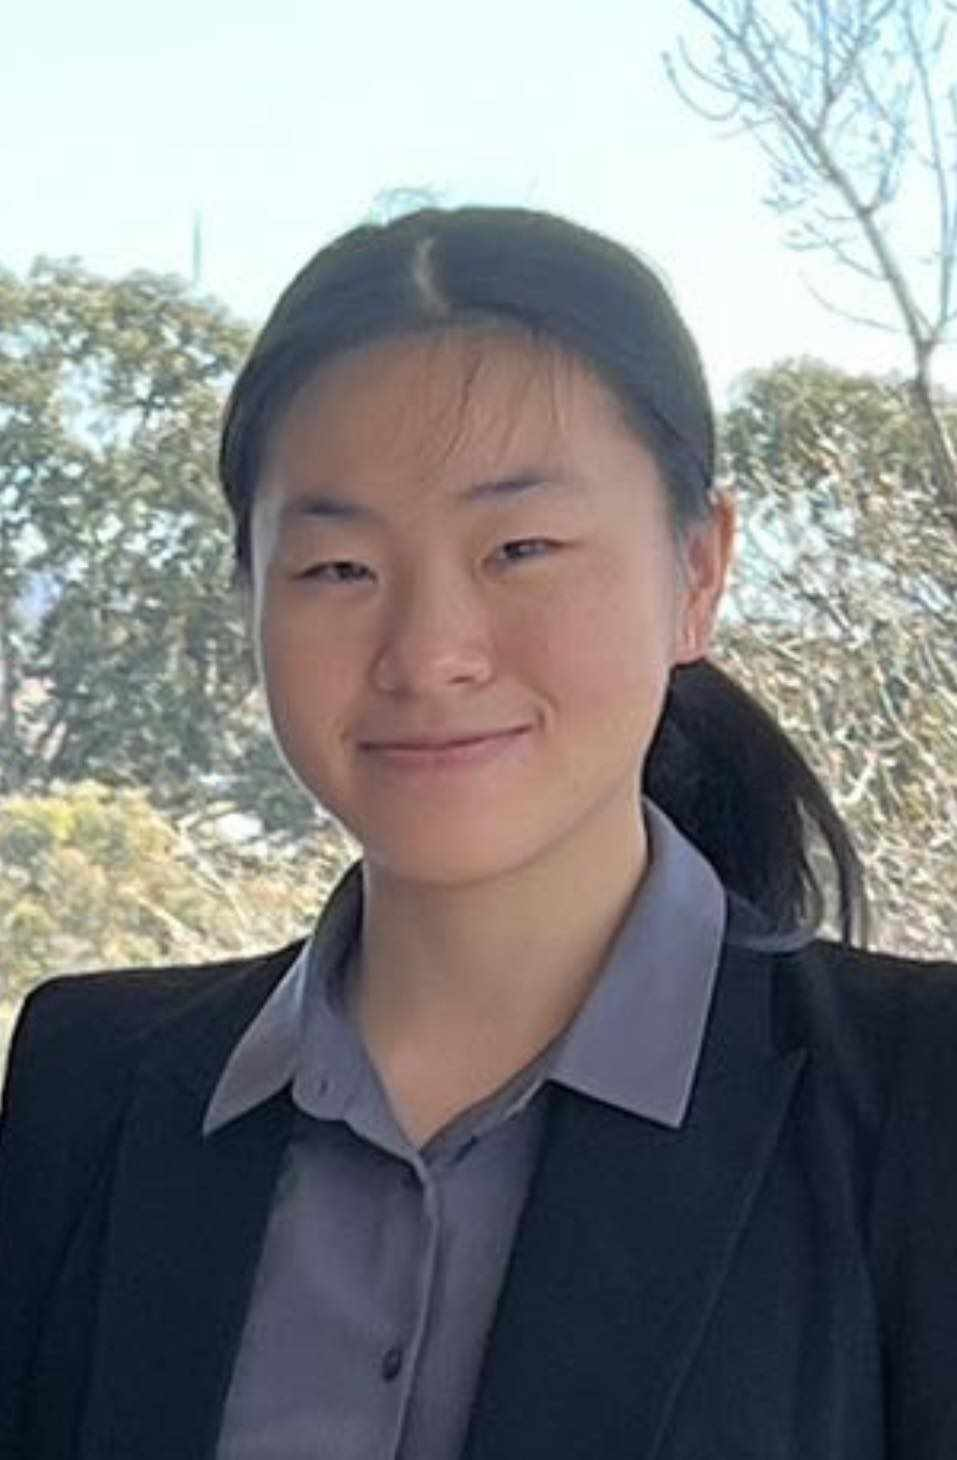
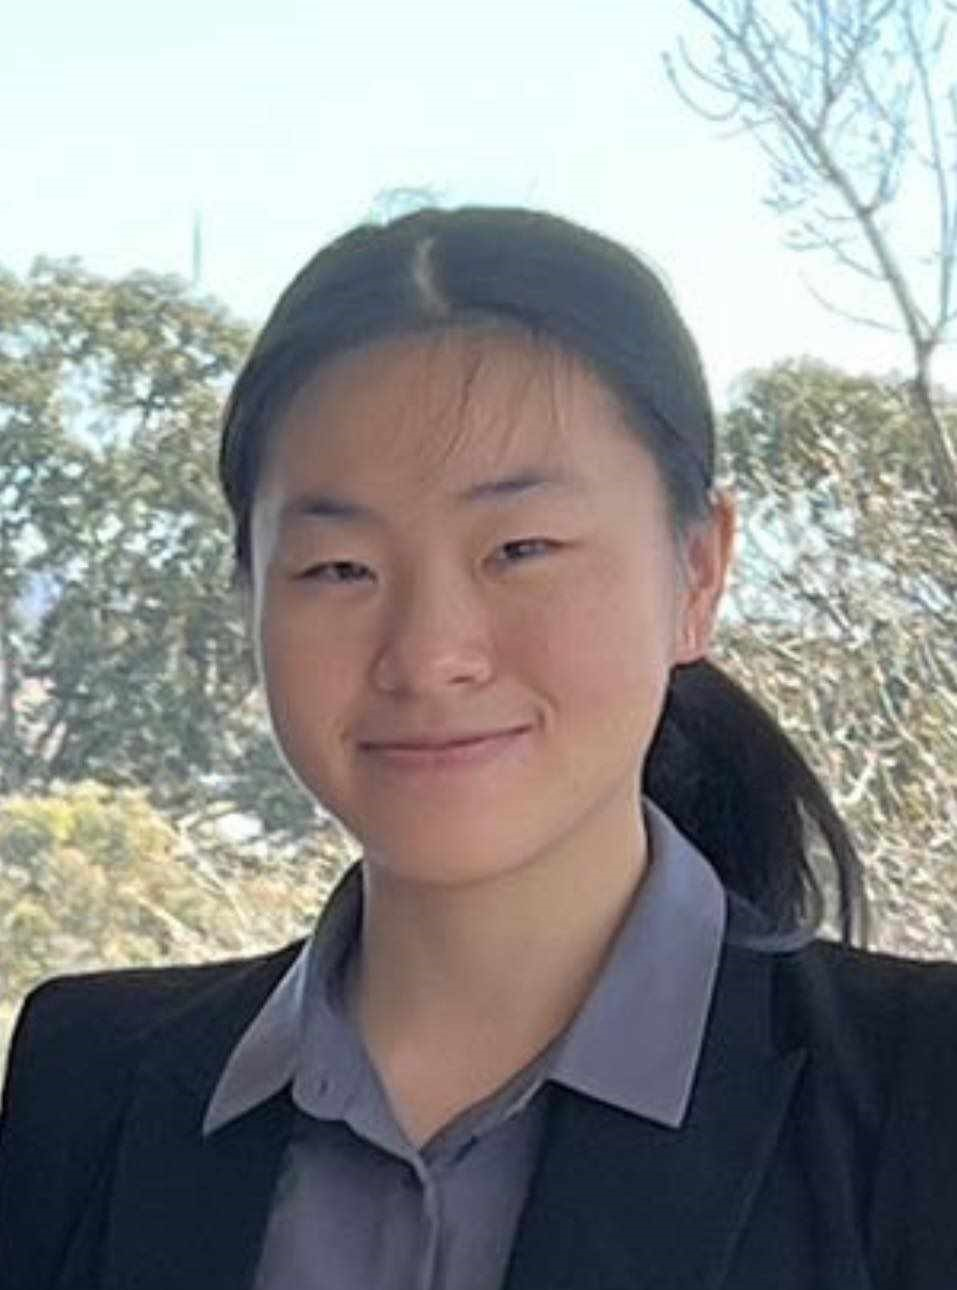
sponsors section done

diff --git a/app/sponsors/page.tsx b/app/sponsors/page.tsx
@@ -1,34 +1,19 @@
-// import weMoneyImg from "./sponsors/WeMoney.png";
-import sponsorsStyle from "./sponsors.module.css";
+import style from "./sponsors.module.css";
+import SponsorCard from "@/components/sponsorCard";
+import { WeMoneyInfo } from "../constants/sponsorsInfo";
 
-export default function sponsors() {
+export default function Sponsors() {
   return (
     <>
-      <div className={sponsorsStyle.header}>
-        <h1>Our Sponsors</h1>
+      <div className={`${style.ourSponsorsBG} bg flex justify-center py-48`}>
+        <p className="font-brand font-bold text-2xl xs:text-3xl herotext:text-4xl text-zinc-800 leading-normal text-center hero:text-left">
+          Our Sponsors
+        </p>
       </div>
-      <div className={sponsorsStyle.sponsorsContainer}>
-        <div className={sponsorsStyle.sponsorImg}>
-          {/* <img src={weMoneyImg.src} alt="weMoney image" /> */}
-        </div>
-        <div>
-          <a
-            href="https://www.wemoney.com.au/"
-            className={sponsorsStyle.sponsorLink}
-          >
-            WeMoney
-          </a>
-        </div>
-        <div className={sponsorsStyle.sponsorDescription}>
-          WeMoney is a smart money management app that connects all your
-          financial accounts in one place and tracks your overall financial
-          health. They seek to empower Australians to take control of their
-          personal finances. WeMoney represents one of the nation’s fastest
-          growing financial communities. They help people pay down debt faster,
-          track bills, bank accounts and remove unnecessary subscriptions. Their
-          vision is to support a better financial health for Australians through
-          their members.
-        </div>
+      <div
+        className={`${style.sponsorsBG} bg flex justify-center items-center py-48 px-12`}
+      >
+        <SponsorCard sponsor={WeMoneyInfo} />
       </div>
     </>
   );

diff --git a/components/sponsorCard.tsx b/components/sponsorCard.tsx
@@ -1,0 +1,59 @@
+"use client";
+
+import React from "react";
+import {
+  Card,
+  CardHeader,
+  CardBody,
+  CardFooter,
+  Divider,
+  Link,
+  Button,
+} from "@nextui-org/react";
+import Image from "next/image";
+import { motion } from "framer-motion";
+
+export default function App(props: {
+  sponsor: {
+    name: string;
+    description: string;
+    link: string;
+    imgSrc: string;
+  };
+}) {
+  const sponsor = props.sponsor;
+  return (
+    <motion.div
+      initial={{ y: 100, opacity: 0, scale: 1 }}
+      animate={{ y: 0, opacity: 1, scale: 1 }}
+      transition={{ duration: 0.4 }}
+    >
+      <Card className="max-w-[500px]" shadow="lg">
+        <CardHeader className="flex">
+          <Image
+            alt={sponsor.name}
+            height={200}
+            src={"/sponsors/" + sponsor.imgSrc}
+            width={200}
+          />
+        </CardHeader>
+        <Divider />
+        <CardBody>
+          <p>{sponsor.description}</p>
+        </CardBody>
+        <Divider />
+        <CardFooter>
+          <Button
+            as={Link}
+            isExternal
+            className="bg-blue-600 text-white shadow-lg"
+            href={sponsor.link}
+            variant="flat"
+          >
+            Learn More
+          </Button>
+        </CardFooter>
+      </Card>
+    </motion.div>
+  );
+}

diff --git a/components/navbar.tsx b/components/navbar.tsx
@@ -14,11 +14,11 @@ import Image from "next/image";
 
 export default function navbar() {
   const menuItems = [
-    "About Us",
-    "Events",
-    "Publications",
-    "Sponsors",
-    "Join Us",
+    { name: "About Us", nav: "about" },
+    { name: "Events", nav: "events" },
+    { name: "Publications", nav: "publications" },
+    { name: "Sponsors", nav: "sponsors" },
+    { name: "Join Us", nav: "join" },
   ];
 
   return (
@@ -110,17 +110,17 @@ export default function navbar() {
         </NavbarItem>
       </NavbarContent>
 
-      <NavbarMenu>
+      <NavbarMenu className="flex items-center">
         {menuItems.map((item, index) => (
-          <NavbarMenuItem key={`${item}-${index}`}>
+          <NavbarMenuItem key={`${item.name}-${index}`}>
             <Link
-              className={`w-full ${
+              className={`w-full text-2xl leading-loose ${
                 index === menuItems.length - 1 ? "text-blue-600" : "text-black"
               }`}
-              href="#"
+              href={item.nav}
               size="lg"
             >
-              {item}
+              {item.name}
             </Link>
           </NavbarMenuItem>
         ))}

diff --git a/app/sponsors/sponsors.module.css b/app/sponsors/sponsors.module.css
@@ -1,46 +1,7 @@
-@import url('https://fonts.googleapis.com/css2?family=Inter:wght@300;400;500;700&display=swap');
-
-.header {
-  font-size: xx-large;
-  background-color: #38383b;
-  color: white;
-  height: 10rem;
-  font-family: "Inter", sans-serif;
-  font-weight: 300;
-  display: flex;
-  padding-top: 8rem;
-
-  justify-content: center;
+.ourSponsorsBG {
+  background-image: url(/illustrations/ourSponsorsBG.svg);
 }
 
-.sponsorsContainer {
-  display: flex;
-  flex-direction: column;
-  padding-left: 8rem;
-  padding-right: 8rem;
-  width: 60%;
-  margin: auto;
-}
-
-.sponsorImg {
-  margin-top: 5rem;
-  margin-bottom: 3rem;
-  display: flex;
-  justify-content: center;
-}
-
-.sponsorLink {
-  font-family: "Inter", sans-serif;
-  font-size: xx-large;
-  font-weight: 500;
-  color: #02104f;
-}
-
-.sponsorDescription {
-  margin-top: 2rem;
-  font-family: "Inter", sans-serif;
-  font-size: large;
-  font-weight: 300;
-  color: black;
-  line-height: 1.6;
+.sponsorsBG {
+  background-image: url(/illustrations/sponsorsBG.svg);
 }

diff --git a/components/profileCard.tsx b/components/profileCard.tsx
@@ -12,22 +12,23 @@ export default function profileCard(props: {
 
   return (
     <Card shadow="lg" className="min-w-fit">
-      <CardBody className="">
+      <CardBody className="flex-none">
         <Image
           alt="headshot"
-          width={200}
-          height={200}
+          width={250}
+          height={250}
+          quality={100}
           src={"/headshots/" + imgSrc + ".jpg"}
           className="object-cover rounded-xl z-0 h-auto w-auto"
         />
       </CardBody>
       <CardFooter className="py-2 px-4 justify-between items-center">
-        <div>
+        <div className="w-48">
           <h4 className="font-bold text-large">{name}</h4>
           <p className="font-body">{role}</p>
           <small className="text-default-500">{degree}</small>
         </div>
-        <Link target="_blank" href={linkedIn}>
+        <Link isExternal href={linkedIn}>
           <Image
             width={40}
             height={40}

diff --git a/app/about/ourMissionSection.tsx b/app/about/ourMissionSection.tsx
@@ -5,7 +5,7 @@ import { Goal } from "lucide-react";
 export default function OurMissionSection() {
   return (
     <div
-      className={` bg-slate-50 pt-8 xs:py-10 herotext:py-12 hero:py-18 spacer ${style.ourMissionBG} max-h-32`}
+      className={`bg bgRatio ${style.ourMissionBG} bg-slate-50 pt-8 xs:py-10 herotext:py-12 hero:py-18 max-h-32`}
     >
       <div className="hero:flex mx-auto max-w-screen-lg px-6 items-center justify-center hero:justify-start hero:h-96">
         <div className="flex justify-center hero:justify-start pb-8 hero:pb-0">

diff --git a/app/about/executivesSection.tsx b/app/about/executivesSection.tsx
@@ -5,7 +5,7 @@ import { ExecutivesProfilesData } from "../constants/profileData";
 export default function ExecutivesSection() {
   return (
     <div
-      className={`bg-slate-50 pt-8 xs:py-10 herotext:py-12 hero:py-18 spacer ${style.executivesBG} max-h-32 profilesSection`}
+      className={`bg bgRatio ${style.executivesBG} bg-slate-50 pt-8 xs:py-10 herotext:py-12 hero:py-18 max-h-32 profilesSection`}
     >
       <div className="flex mx-auto max-w-screen-lg justify-center">
         <div className="flex max-w-lg justify-center">

diff --git a/app/about/directorsSection.tsx b/app/about/directorsSection.tsx
@@ -5,7 +5,7 @@ import { DirectorsProfilesData } from "../constants/profileData";
 export default function DirectorsSection() {
   return (
     <div
-      className={`bg-slate-50 pt-8 xs:py-10 herotext:py-12 hero:py-18 spacer ${style.directorsBG} max-h-32 profilesSection`}
+      className={`bg bgRatio ${style.directorsBG} bg-slate-50 pt-8 xs:py-10 herotext:py-12 hero:py-18 max-h-32 profilesSection`}
     >
       <div className="flex mx-auto max-w-screen-lg justify-center">
         <div className="flex max-w-lg justify-center">

diff --git a/app/page.tsx b/app/page.tsx
@@ -6,7 +6,7 @@ import Image from "next/image";
 export default function Home() {
   return (
     <div
-      className={`${style.bg} bg-slate-50 pt-10 xs:pt-12 herotext:pt-14 hero:pt-18 spacer hero:wavesLargeSpacer`}
+      className={`${style.bg} bg-slate-50 pt-10 xs:pt-12 herotext:pt-14 hero:pt-18 bg bgRatio hero:wavesLargeSpacer`}
     >
       <div className="hero:flex mx-auto max-w-screen-lg px-6 items-center justify-center hero:justify-start hero:h-96">
         <div className="hero:flex">

diff --git a/app/about/aboutUsSection.tsx b/app/about/aboutUsSection.tsx
@@ -5,7 +5,7 @@ import Image from "next/image";
 export default function AboutUsSection() {
   return (
     <div
-      className={`bg-slate-50 pt-8 xs:py-10 herotext:py-12 hero:py-18 spacer ${style.aboutUsBG}`}
+      className={`bg bgRatio ${style.aboutUsBG} bg-slate-50 pt-8 xs:py-10 herotext:py-12 hero:py-18`}
     >
       <div className="hero:flex mx-auto max-w-screen-lg px-6 items-center hero:h-96">
         <div className="flex justify-center hero:justify-start">

diff --git a/app/constants/sponsorsInfo.tsx b/app/constants/sponsorsInfo.tsx
@@ -1,0 +1,11 @@
+export const WeMoneyInfo = {
+  name: "WeMoney",
+  description:
+    "WeMoney is a smart money management app that connects all your\
+    financial accounts in one place and tracks your overall financial\
+    health. Representing one of the nation's fastest growing financial\
+    communities, they seek to empower Australians to take control of their\
+    personal finances.",
+  link: "https://www.wemoney.com.au/",
+  imgSrc: "WeMoney.png",
+};

diff --git a/components/profileDisplay.tsx b/components/profileDisplay.tsx
@@ -37,8 +37,7 @@ export default function ProfileDisplay(props: {
                   key={item.category}
                   initial={{ opacity: 0, scale: 1 }}
                   animate={{ opacity: 1, scale: 1 }}
-                  exit={{ opacity: 0 }}
-                  transition={{ duration: 0.2 }}
+                  transition={{ duration: 0.4 }}
                 >
                   {item.data.map((person) => (
                     <ProfileCard
